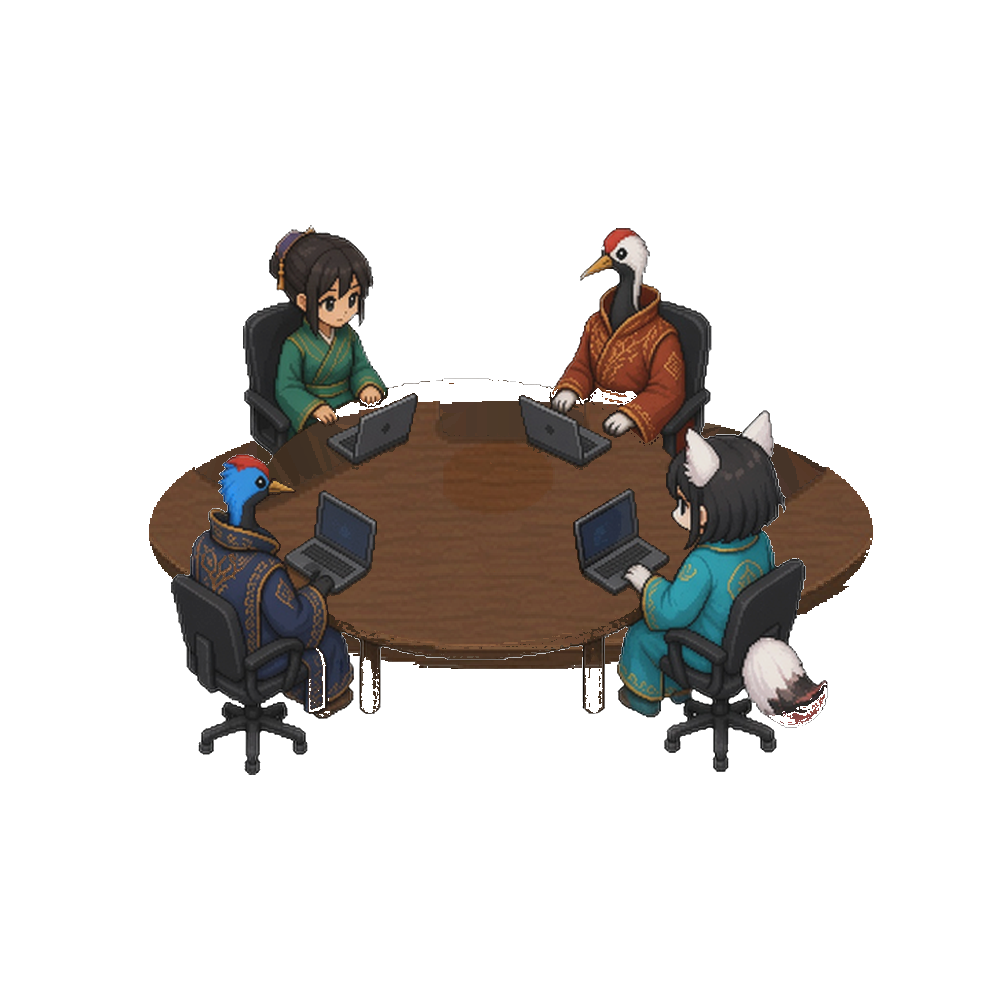
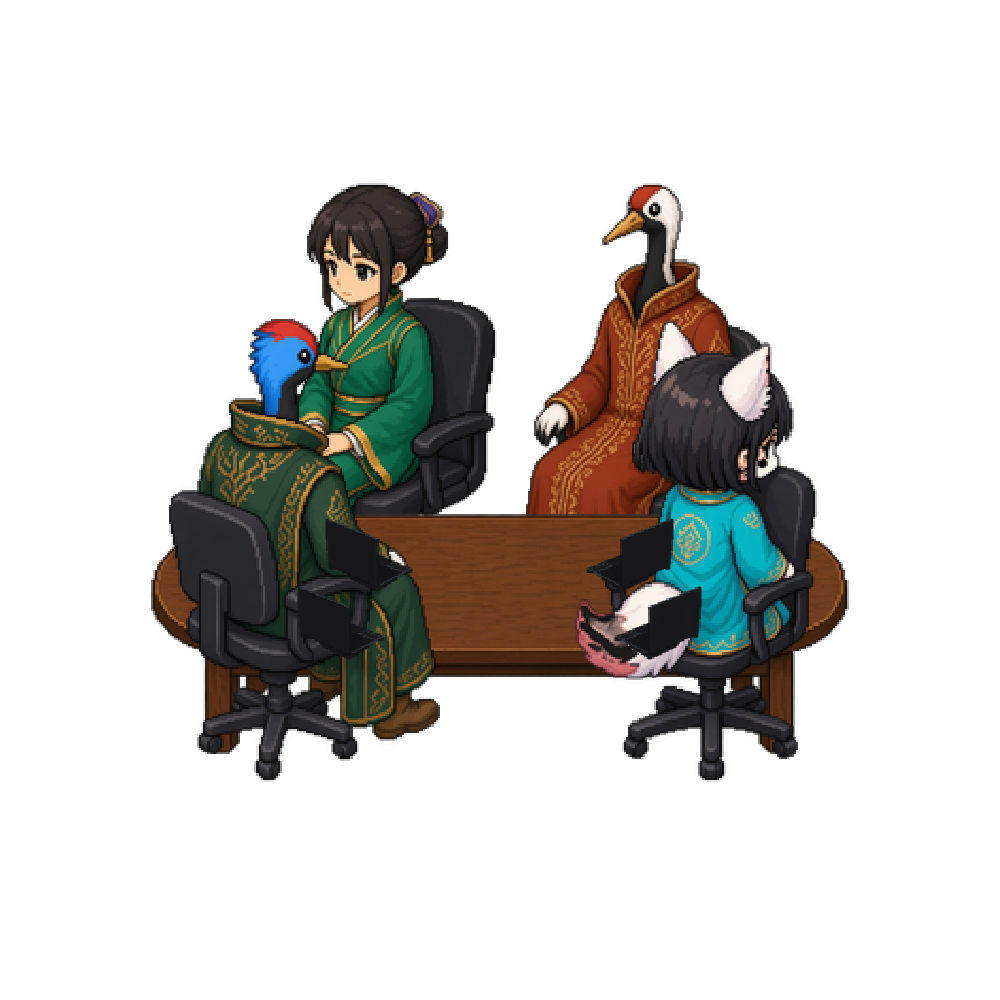
pixel map: rebuild 抉擇塔+磁鐵 with clean oval only
Remove leftover old table layers by recomposing from
furn-meeting-table-oval + seat/laptop sprites (no GenerateImage).
People scaled to brand oval proportion; brand vignette-3 untouched.
Cache bump VIGNETTE_V=vig10.

Changed region(s): [[0.124, 0.186, 0.868, 0.806]]

diff --git a/ai-office-pixel-map.html b/ai-office-pixel-map.html
@@ -645,7 +645,7 @@
     const FURN_V = 'furn31';
     const SPRITE_V = 'meet13';
     const SEAT_V = 'seat12';
-    const VIGNETTE_V = 'vig9'; /* oval table swap: 抉擇塔+磁鐵 = brand oval; people unchanged */
+    const VIGNETTE_V = 'vig10'; /* clean oval only: sprite recompose v2+v4, old table layers gone */
 
 
     function checker(tint) {
